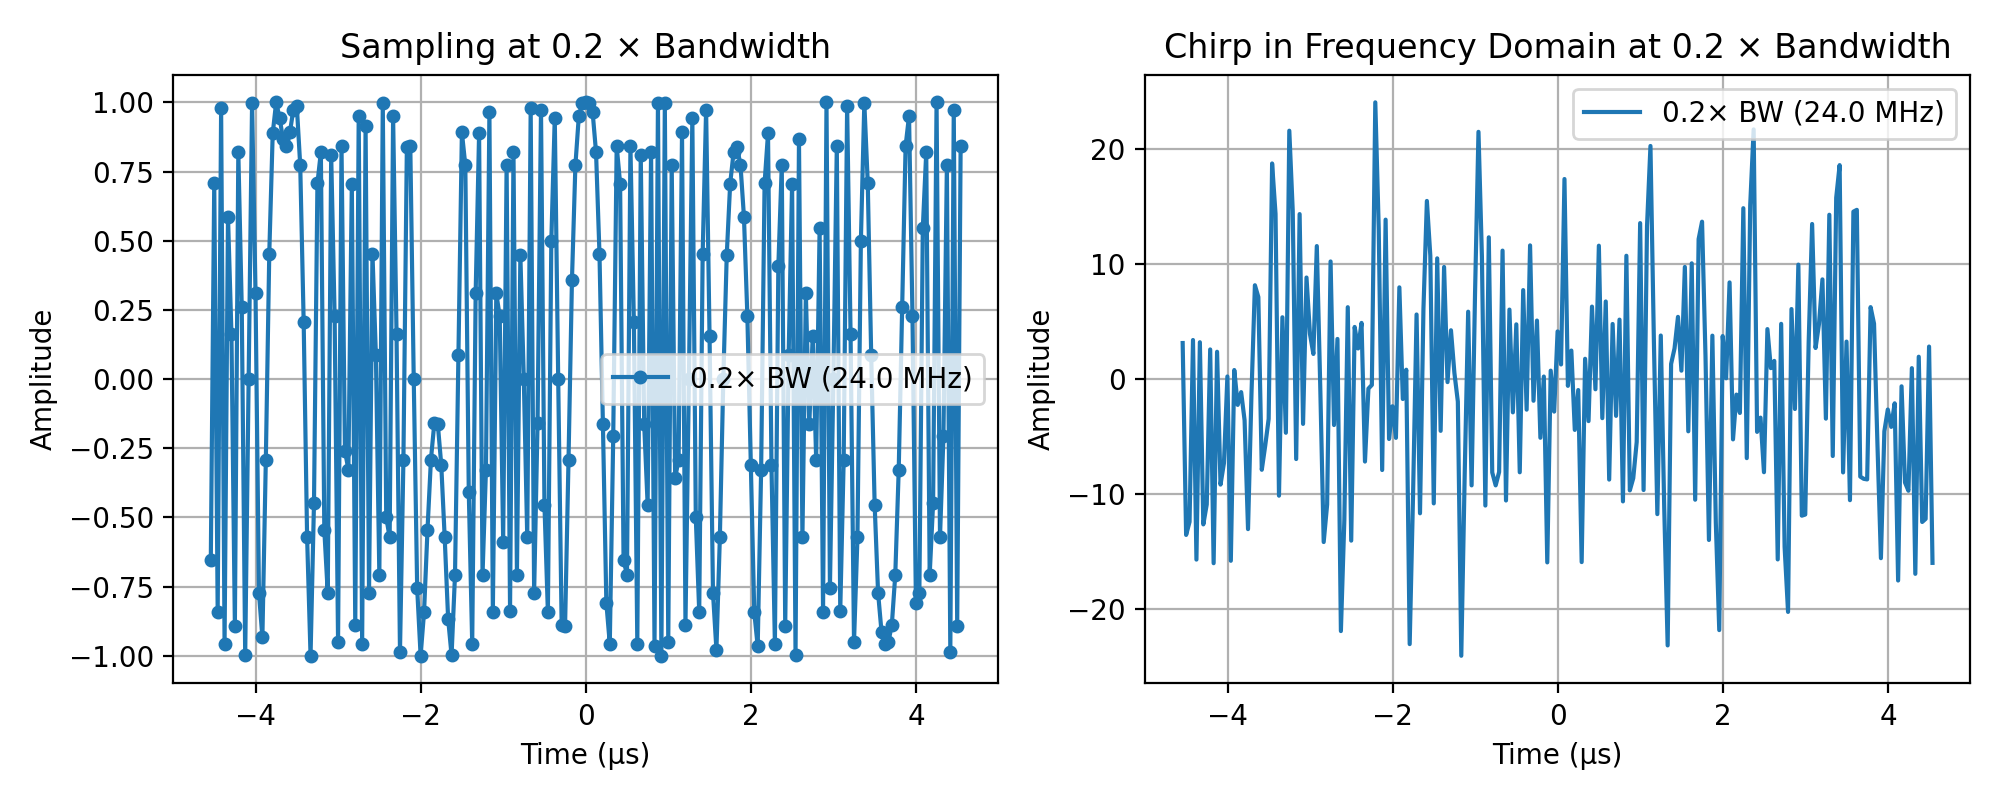
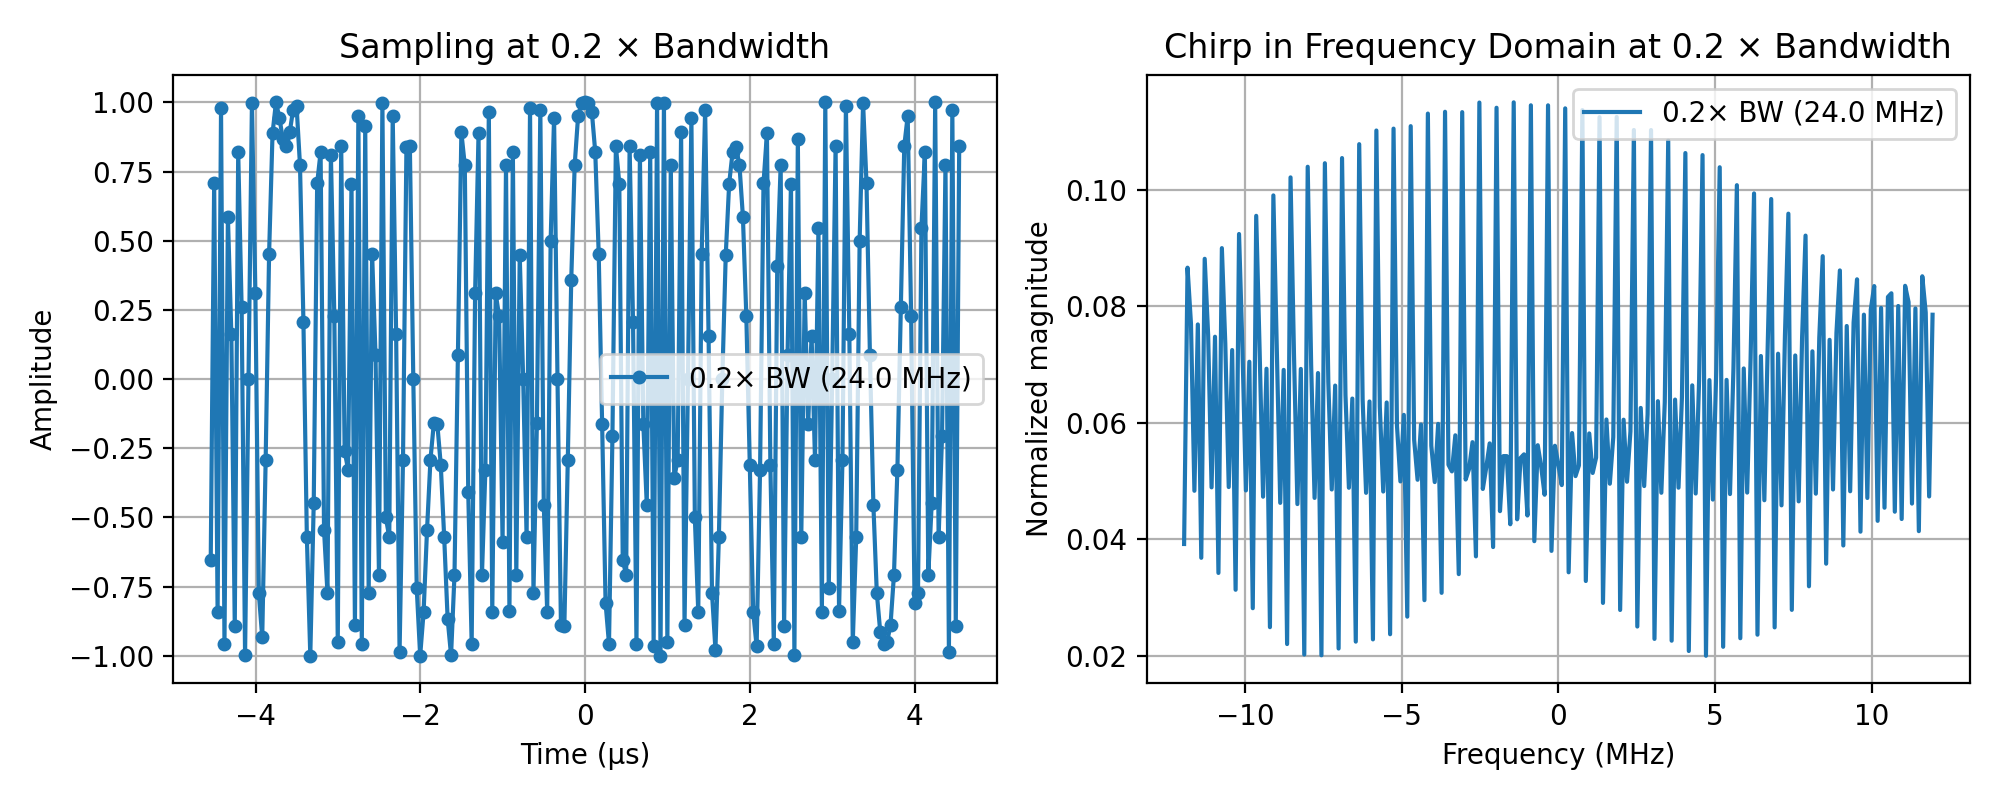
Normalize the FFT signal and configure the save path

diff --git a/Fourier_transform/main.py b/Fourier_transform/main.py
@@ -6,7 +6,7 @@ import matplotlib.pyplot as plt
 # ============================================================================
 # Create output directory
 # ============================================================================
-data_path = "GalaxEye/Fourier_transform"
+data_path = "Fourier_transform"
 os.makedirs(data_path, exist_ok=True)
 
 # ============================================================================
@@ -155,14 +155,18 @@ for M in Fs_multiples:
 
     plt.subplot(1,2,2)
 
+    Xf = np.fft.fftshift(np.fft.fft(x))
+    Xn = np.abs(Xf) / len(x)  # Correct DFT magnitude normalization
+    freq = np.fft.fftshift(np.fft.fftfreq(len(x), dt))
+
     plt.plot(
-        t * 1e6,
-        np.real(np.fft.fftshift(np.fft.fft(x))),
+        freq / 1e6,
+        Xn,
         label=f"{M}× BW ({Fs/1e6:.1f} MHz)"
     )
 
-    plt.xlabel("Time (µs)")
-    plt.ylabel("Amplitude")
+    plt.xlabel("Frequency (MHz)")
+    plt.ylabel("Normalized magnitude")
     plt.title(f"Chirp in Frequency Domain at {M} × Bandwidth")
     plt.grid(True)
     plt.legend()
